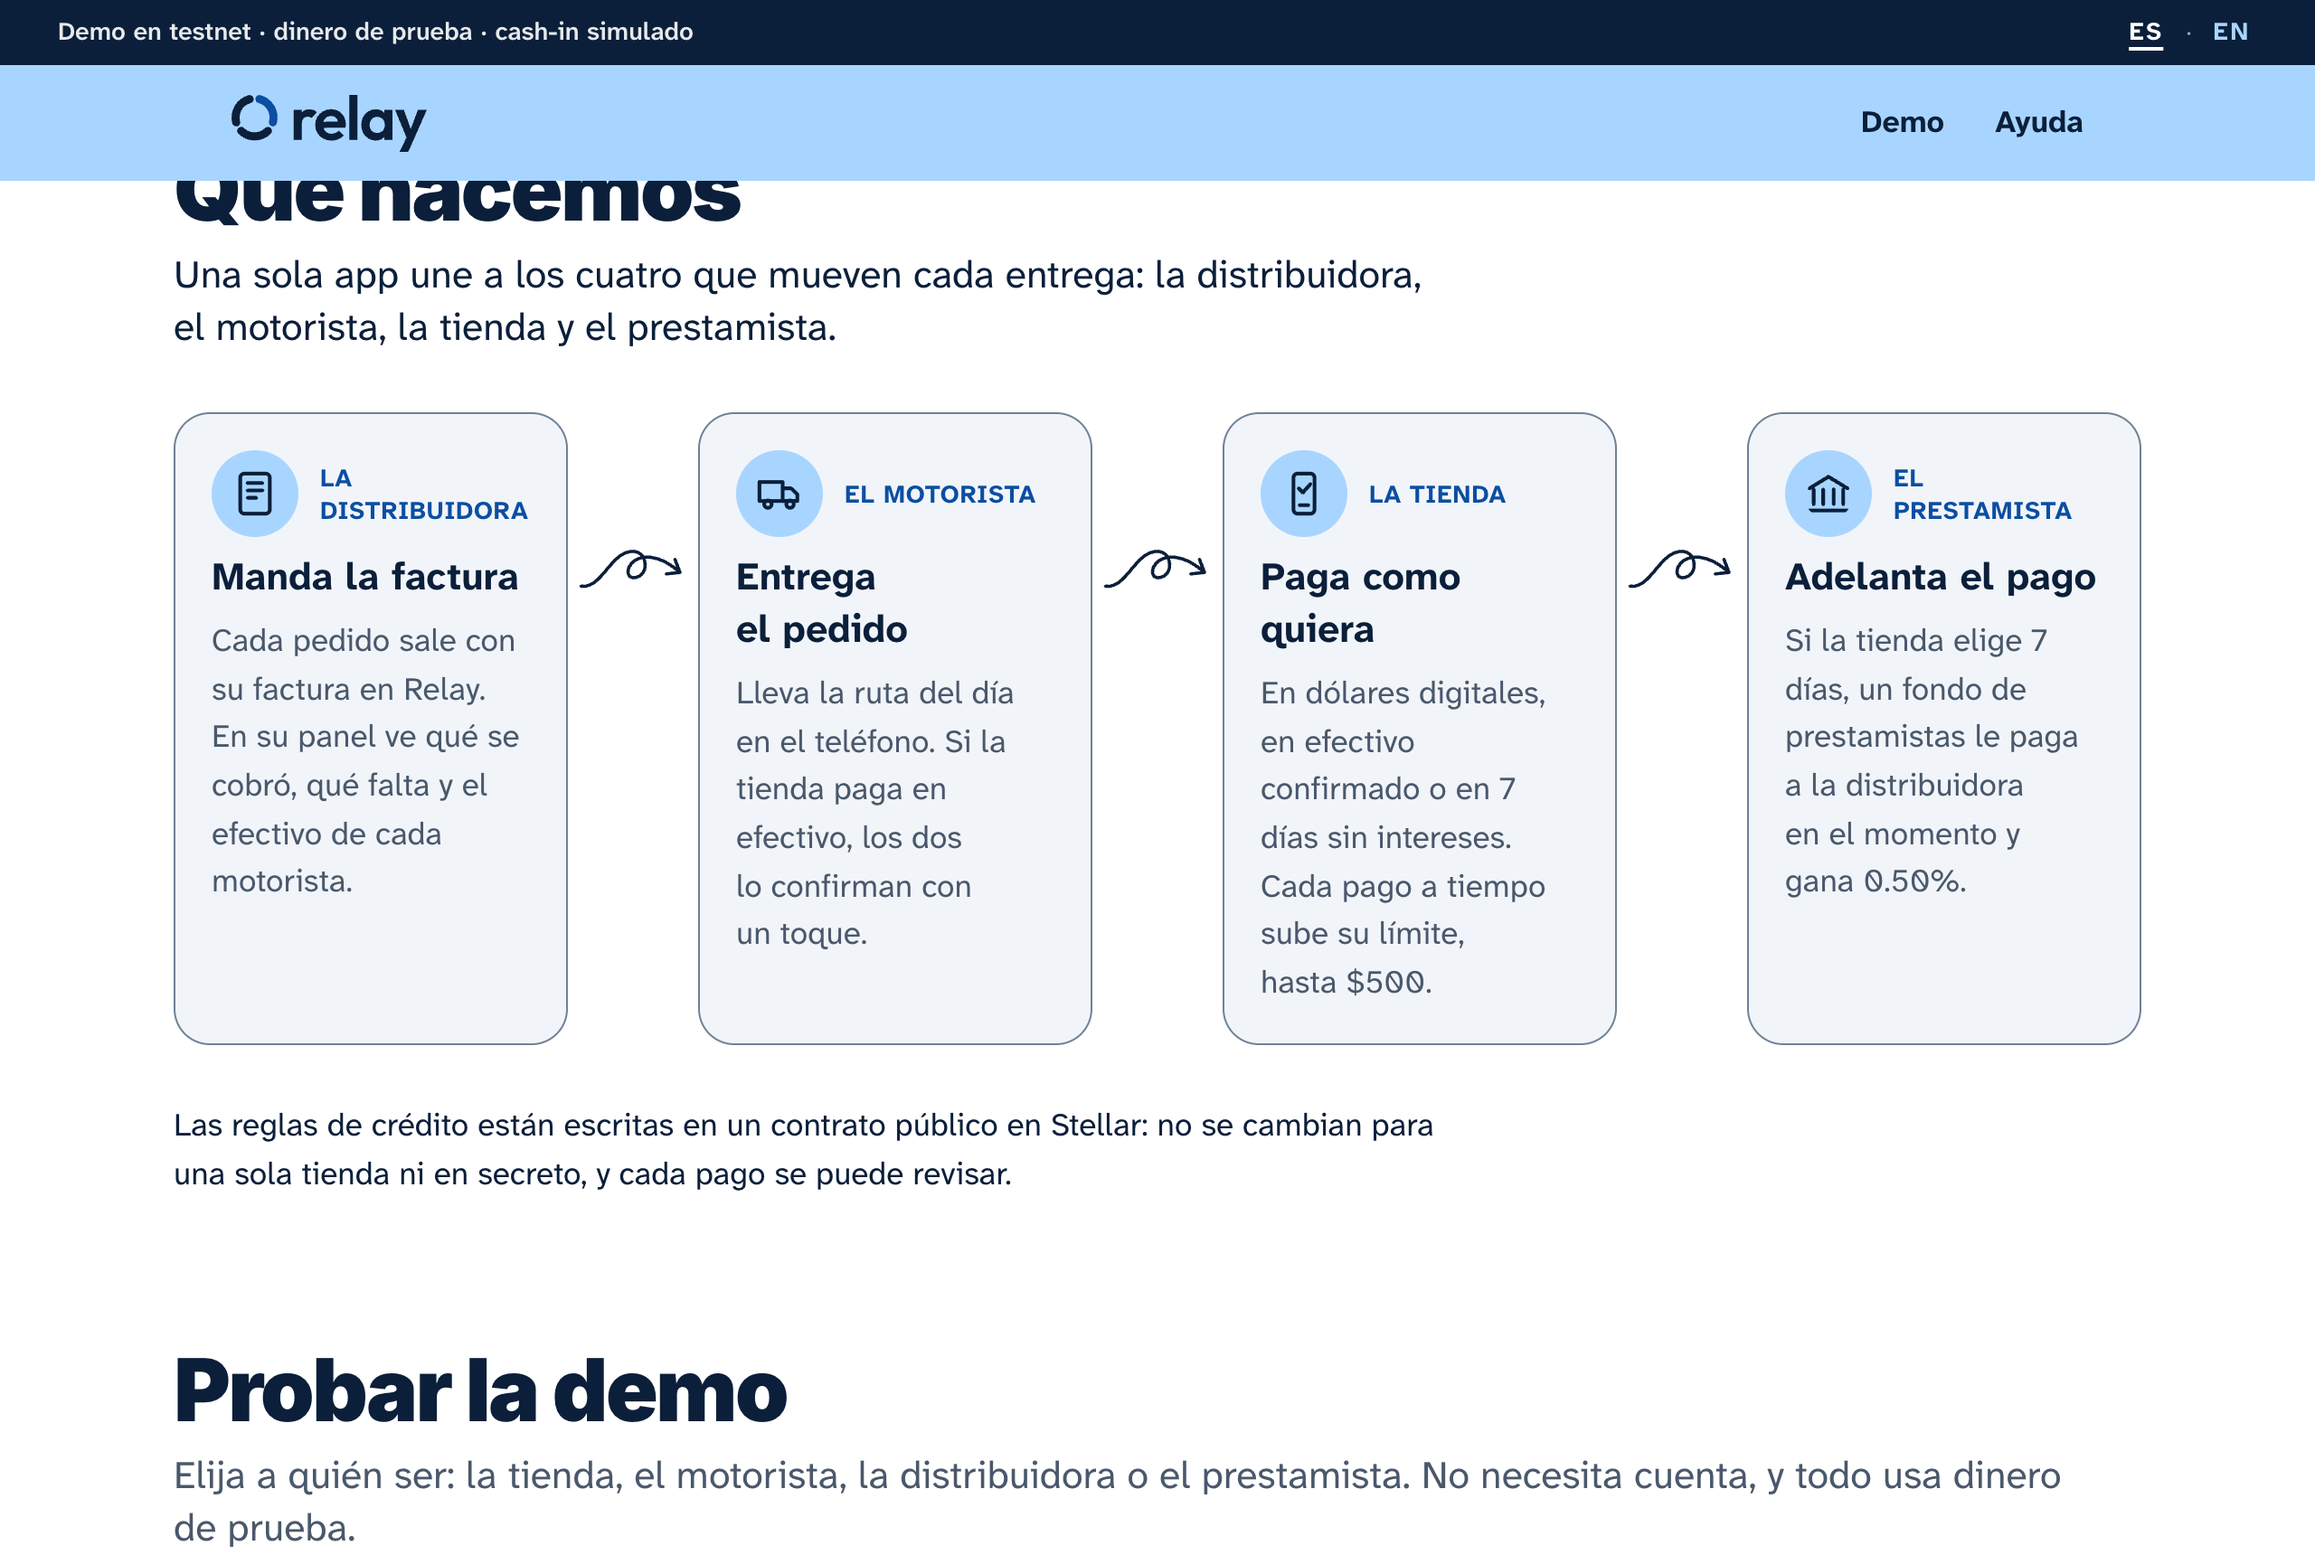
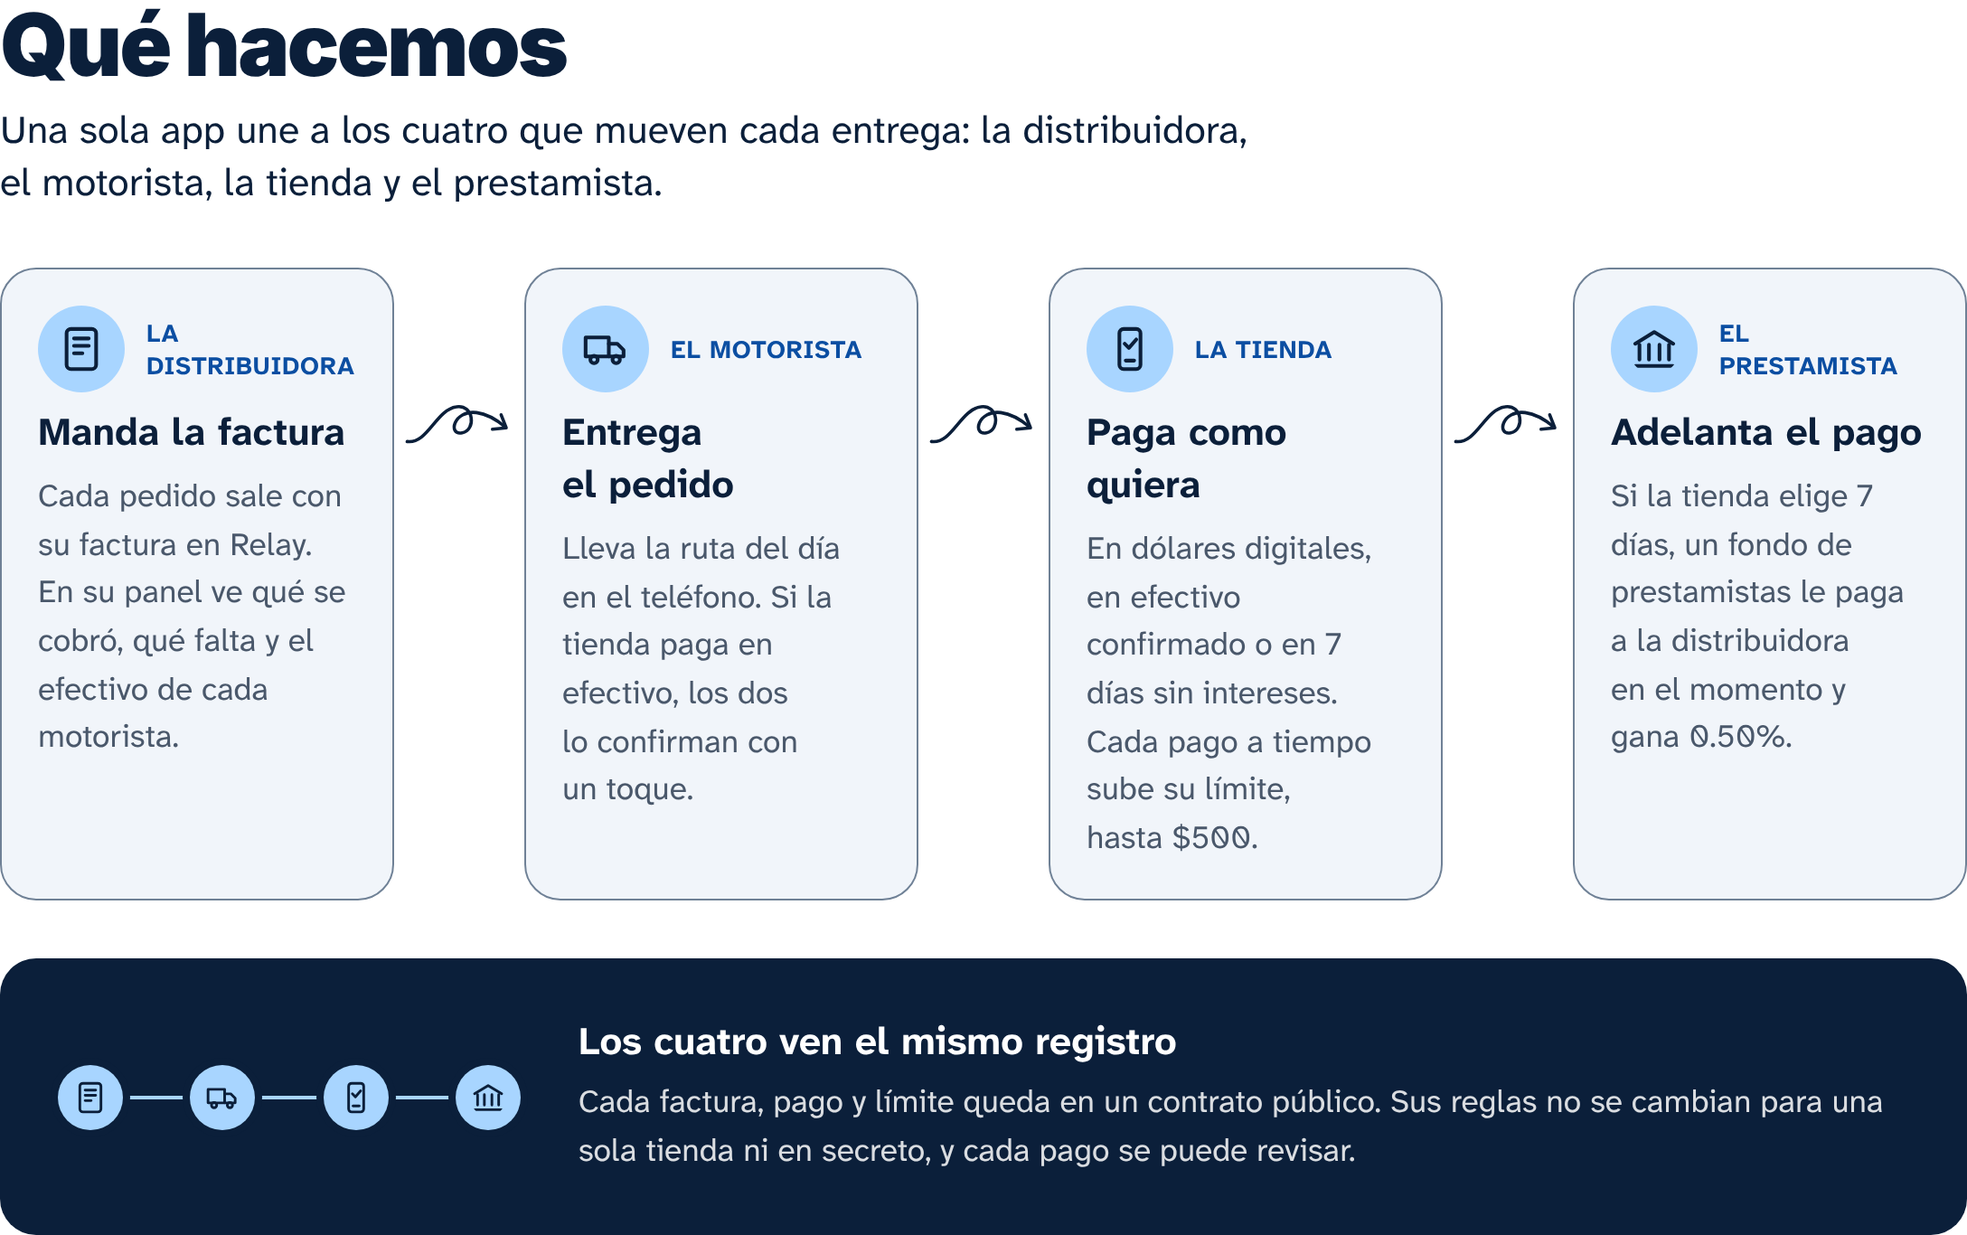
Home: end 'Qué hacemos' with the four joined on one record
A dark card shows the four parties' icons joined by a line that draws in as it
arrives, with 'Los cuatro ven el mismo registro'. It replaces the closing line,
which no longer names Stellar on the screen. Footer link now says Qué hacemos.

Claude-Session: https://claude.ai/code/session_012ShQukY565b6Ed76kj7NKX

diff --git a/app/page.tsx b/app/page.tsx
@@ -283,12 +283,37 @@ export default function Home() {
                   </li>
                 ))}
               </ol>
-              <p data-reveal="" className="max-w-[44rem] text-pretty">
-                <T
-                  es="Las reglas de crédito están escritas en un contrato público en Stellar: no se cambian para una sola tienda ni en secreto, y cada pago se puede revisar."
-                  en="The credit rules are written in a public contract on Stellar: they can't be changed for one shop or quietly, and every payment can be checked."
-                />
-              </p>
+              {/* The four, joined: one record, with a line drawn through them as it arrives. */}
+              <div data-reveal="" className="flex flex-col gap-5 rounded-card bg-ink p-6 text-white min-[40rem]:flex-row min-[40rem]:items-center min-[40rem]:gap-8 min-[40rem]:p-8">
+                <div className="relative flex shrink-0 items-center justify-between gap-3 min-[40rem]:w-64" aria-hidden="true">
+                  <span className="draw-bar absolute inset-x-6 top-1/2 h-0.5 -translate-y-1/2 bg-accent" />
+                  {STEPS.map(({ icon }, i) => (
+                    <svg
+                      key={i}
+                      viewBox="0 0 24 24"
+                      className="relative box-content size-5 shrink-0 rounded-full bg-accent p-2 text-ink ring-4 ring-ink"
+                      fill="none"
+                      stroke="currentColor"
+                      strokeWidth="1.75"
+                      strokeLinecap="round"
+                      strokeLinejoin="round"
+                    >
+                      {icon}
+                    </svg>
+                  ))}
+                </div>
+                <div className="flex flex-col gap-1.5">
+                  <h3 className="text-lead font-bold text-balance">
+                    <T es="Los cuatro ven el mismo registro" en="All four see the same record" />
+                  </h3>
+                  <p className="text-white/85 text-pretty">
+                    <T
+                      es="Cada factura, pago y límite queda en un contrato público. Sus reglas no se cambian para una sola tienda ni en secreto, y cada pago se puede revisar."
+                      en="Every invoice, payment and limit is kept in a public contract. Its rules can't be changed for one shop or quietly, and every payment can be checked."
+                    />
+                  </p>
+                </div>
+              </div>
             </ScrollStory>
           </section>
 

diff --git a/app/globals.css b/app/globals.css
@@ -384,6 +384,15 @@ body {
     .story[data-ready] [data-reveal]:not([data-shown]) .draw-head {
       opacity: 0;
     }
+    /* A straight line that grows from the left (the four joined at the end). */
+    .story[data-ready] [data-reveal] .draw-bar {
+      transform-origin: left;
+      transition: scale 1100ms cubic-bezier(0.65, 0, 0.35, 1);
+      transition-delay: calc(var(--reveal-delay, 0ms) + 300ms);
+    }
+    .story[data-ready] [data-reveal]:not([data-shown]) .draw-bar {
+      scale: 0 1;
+    }
   }
 
   /* A payment completes and its status appears, once: a short fade and settle. */

diff --git a/app/home-footer.tsx b/app/home-footer.tsx
@@ -24,7 +24,7 @@ const COLUMNS: { es: string; en: string; links: FooterLink[] }[] = [
     en: "Relay",
     links: [
       { href: "/pronto/nosotros", es: "Sobre Relay", en: "About Relay" },
-      { href: "#como", es: "Cómo funciona", en: "How it works" },
+      { href: "#como", es: "Qué hacemos", en: "What we do" },
       { href: "/registro/distribuidora", es: "Para distribuidoras", en: "For distributors" },
       { href: "/prestamista", es: "Para prestamistas", en: "For lenders" },
     ],
